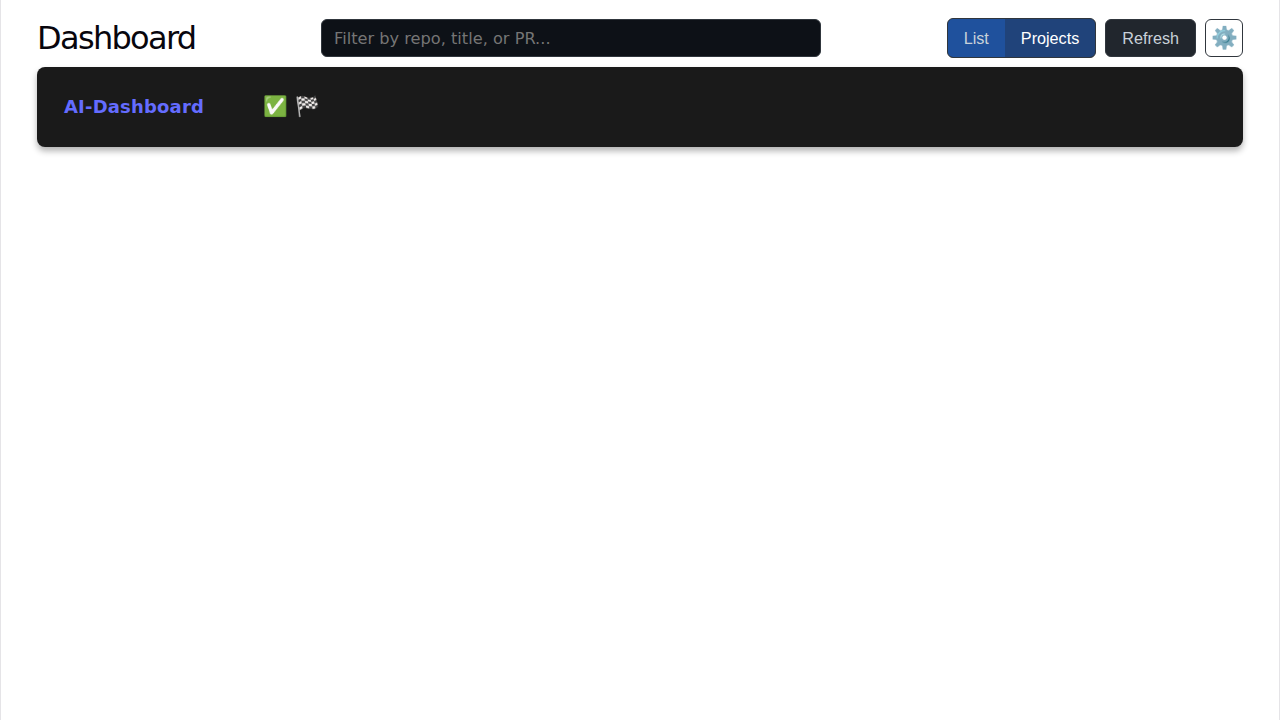
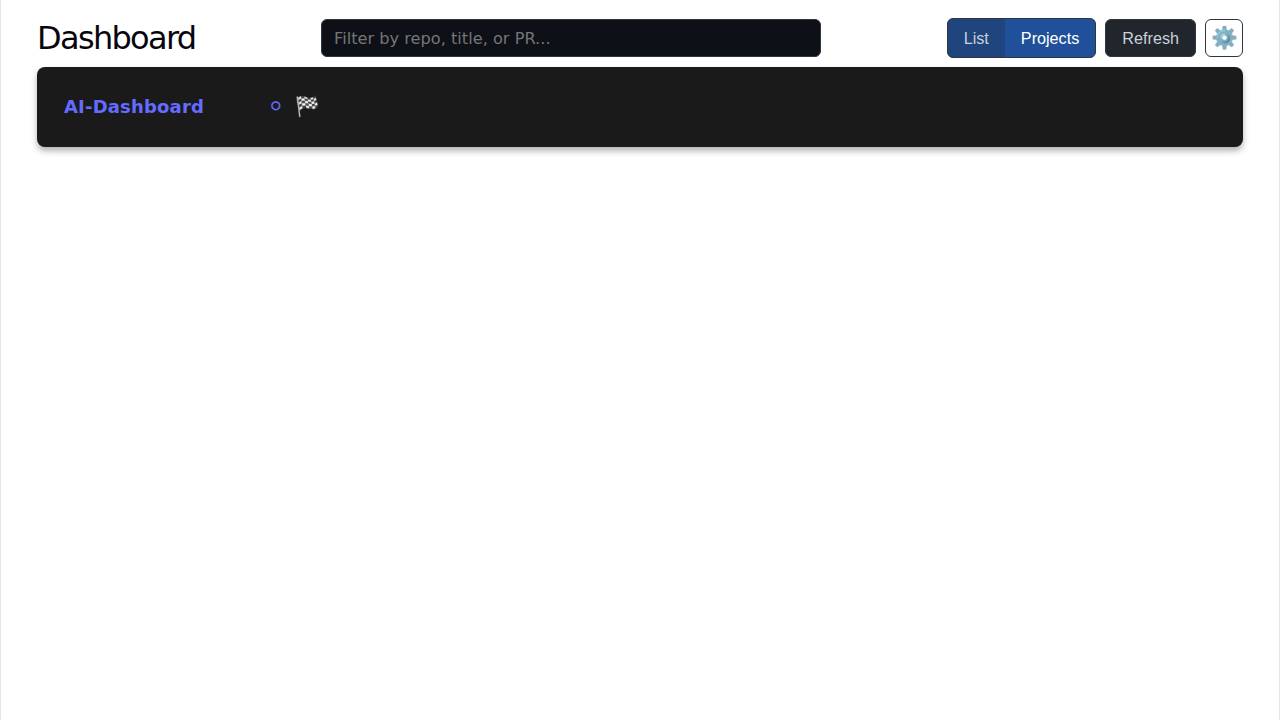
Replace status colors with emojis in Projects view
- Introduced `getStatusEmoji` helper in `App.tsx` to map status colors to emojis (✅, 🚧, ❌, 🏁, ⚪).
- Updated Projects view rendering to display emojis inside status links.
- Modified `.status-square` in `App.css` to use `inline-flex`, centered alignment, and removed previous background color styles.
- Integrated latest changes from main branch and added support for the new 'grey' status.

Changed region(s): [[0.7188, 0.0, 0.875, 0.0917], [0.1875, 0.1222, 0.25, 0.1833]]

diff --git a/web/src/App.tsx b/web/src/App.tsx
@@ -151,7 +151,7 @@ function App() {
     return status === 'in-progress' ? 'InProgress' : status.replace(/-/g, ' ');
   };
 
-  const getIssueStatusColor = (issue: IssueWithJulesStatus): 'purple' | 'red' | 'yellow' | 'green' => {
+  const getIssueStatusColor = (issue: IssueWithJulesStatus): 'purple' | 'red' | 'yellow' | 'green' | 'grey' => {
     if (issue.state === 'closed') return 'purple';
 
     const julesStatus = issue.julesStatus;
@@ -159,29 +159,37 @@ function App() {
 
     // Check linked PRs as well
     const linkedPRs = issue.linkedPRs || [];
-    const allJulesStatuses = [julesStatus, ...linkedPRs.map(pr => pr.julesStatus)].filter(Boolean);
-    const allPRStatuses = [prStatus, ...linkedPRs.map(pr => pr.prStatus)].filter(Boolean);
+    const allJulesStatuses = [julesStatus, ...linkedPRs.map(pr => pr.julesStatus)].filter(Boolean) as string[];
+    const allPRStatuses = [prStatus, ...linkedPRs.map(pr => pr.prStatus)].filter(Boolean) as PRStatus[];
 
     if (allJulesStatuses.includes('failed') || allPRStatuses.some(ps => ps?.color === 'red')) {
       return 'red';
     }
 
     if (
-      allJulesStatuses.some(s => ['in-progress', 'researching', 'planning', 'coding', 'testing'].includes(s!)) ||
+      allJulesStatuses.some(s => ['in-progress', 'researching', 'planning', 'coding', 'testing'].includes(s)) ||
       allPRStatuses.some(ps => ps?.color === 'yellow')
     ) {
       return 'yellow';
     }
 
+    const hasPR = !!issue.pull_request || linkedPRs.length > 0;
+    const hasJules = allJulesStatuses.length > 0;
+
+    if (!hasPR && !hasJules) {
+      return 'grey';
+    }
+
     return 'green';
   };
 
-  const getStatusEmoji = (color: 'purple' | 'red' | 'yellow' | 'green'): string => {
+  const getStatusEmoji = (color: 'purple' | 'red' | 'yellow' | 'green' | 'grey'): string => {
     switch (color) {
       case 'purple': return '🏁';
       case 'red': return '❌';
       case 'yellow': return '🚧';
       case 'green': return '✅';
+      case 'grey': return '⚪';
       default: return '';
     }
   };

diff --git a/web/tests/projects_view.spec.ts b/web/tests/projects_view.spec.ts
@@ -58,7 +58,7 @@ test('Project View', async ({ page }) => {
   await expect(squares).toHaveCount(2);
 
   // Check colors
-  await expect(squares.first()).toHaveClass(/green/);
+  await expect(squares.first()).toHaveClass(/grey/);
   await expect(squares.nth(1)).toHaveClass(/purple/);
 
   // Take a screenshot
